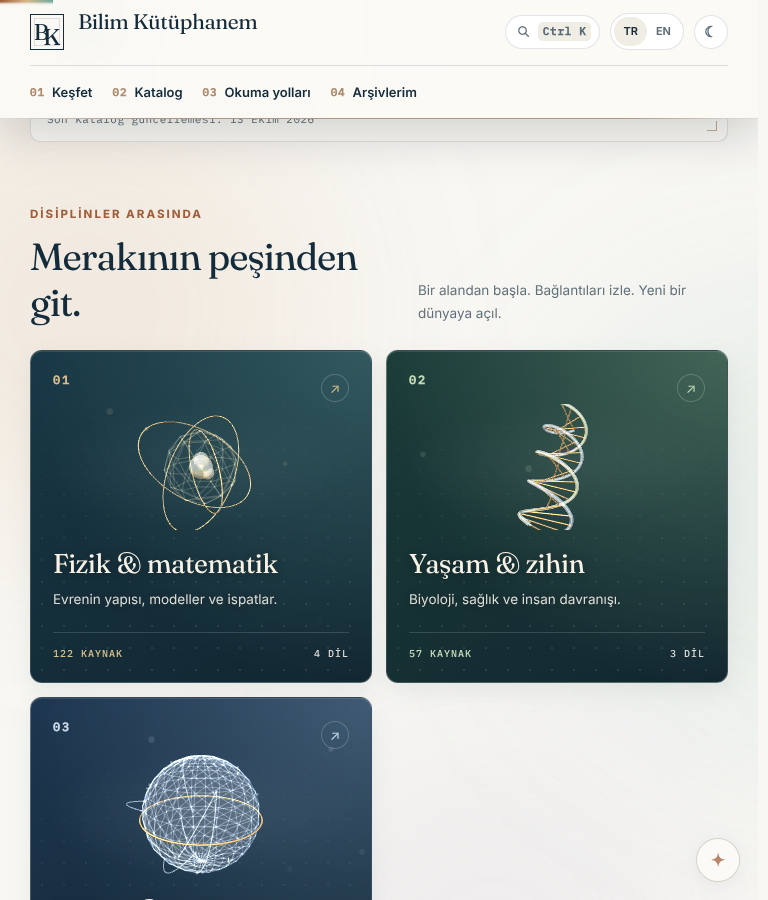
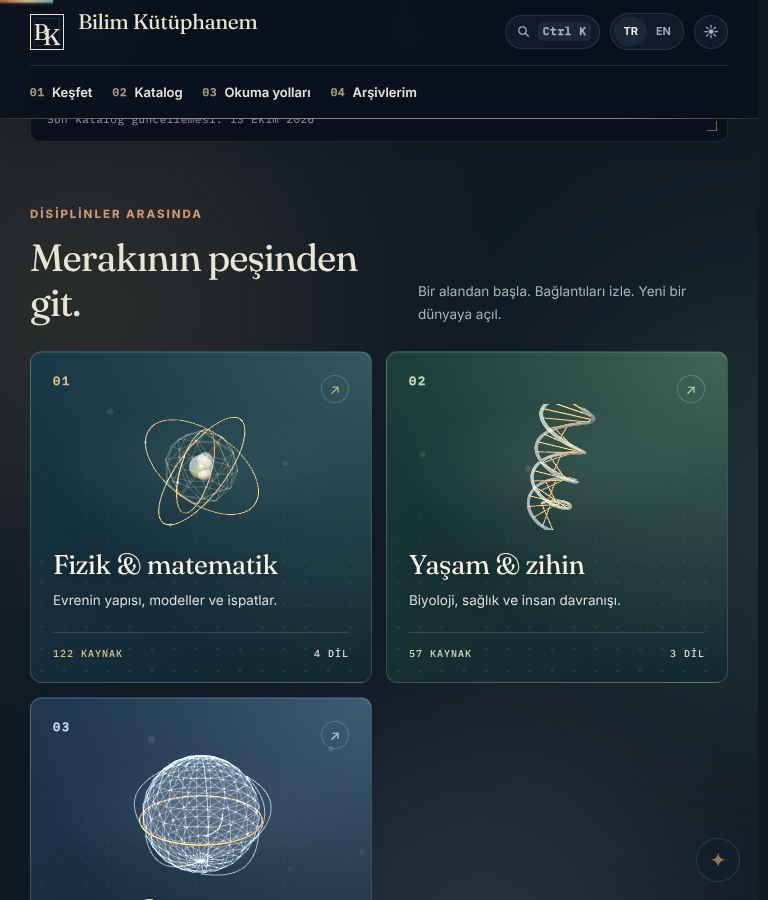
v99: Nobel chart no longer stretches the block (768px), docs (TARAMA, DEVIR 48, EKRAN v99), version bump, tour theme fix
Claude-Session: https://claude.ai/code/session_01GTXipf6cUzVQFgL2AuFcrv

diff --git a/site/index.html b/site/index.html
@@ -1,5 +1,5 @@
 <!doctype html>
-<html lang="tr"><head><meta charset="utf-8"><meta name="viewport" content="width=device-width,initial-scale=1"><meta name="theme-color" content="#132b3b"><script>(function(){try{var s=localStorage.getItem('bk-theme');var d=s==='dark'||(s!=='light'&&window.matchMedia&&matchMedia('(prefers-color-scheme: dark)').matches);document.documentElement.dataset.theme=d?'dark':'light'}catch(e){document.documentElement.dataset.theme='light'}})();</script><script type="importmap">{"imports":{"three":"./vendor/three.module.min.js"}}</script><link rel="preload" href="fonts/Fraunces-var-latin.woff2" as="font" type="font/woff2" crossorigin><link rel="preload" href="fonts/Inter-var-latin.woff2" as="font" type="font/woff2" crossorigin><meta name="description" content="Bilim Kütüphanem — a multilingual library of science, literature and Nobel discoveries."><meta id="ogTitle" property="og:title" content="Bilim Kütüphanem · The Knowledge Library"><meta id="ogDesc" property="og:description" content="Bilim Kütüphanem — a multilingual library of science, literature and Nobel discoveries."><meta id="ogUrl" property="og:url" content="https://mustafaras.github.io/bilim-kutuphanesi/"><meta property="og:type" content="website"><meta id="ogImage" property="og:image" content="https://mustafaras.github.io/bilim-kutuphanesi/og/default.png"><meta name="twitter:card" content="summary_large_image"><title>Bilim Kütüphanem · The Knowledge Library</title><link rel="manifest" href="manifest.webmanifest"><link rel="icon" href="icon.svg"><link rel="stylesheet" href="style.css?v=98"></head>
+<html lang="tr"><head><meta charset="utf-8"><meta name="viewport" content="width=device-width,initial-scale=1"><meta name="theme-color" content="#132b3b"><script>(function(){try{var s=localStorage.getItem('bk-theme');var d=s==='dark'||(s!=='light'&&window.matchMedia&&matchMedia('(prefers-color-scheme: dark)').matches);document.documentElement.dataset.theme=d?'dark':'light'}catch(e){document.documentElement.dataset.theme='light'}})();</script><script type="importmap">{"imports":{"three":"./vendor/three.module.min.js"}}</script><link rel="preload" href="fonts/Fraunces-var-latin.woff2" as="font" type="font/woff2" crossorigin><link rel="preload" href="fonts/Inter-var-latin.woff2" as="font" type="font/woff2" crossorigin><meta name="description" content="Bilim Kütüphanem — a multilingual library of science, literature and Nobel discoveries."><meta id="ogTitle" property="og:title" content="Bilim Kütüphanem · The Knowledge Library"><meta id="ogDesc" property="og:description" content="Bilim Kütüphanem — a multilingual library of science, literature and Nobel discoveries."><meta id="ogUrl" property="og:url" content="https://mustafaras.github.io/bilim-kutuphanesi/"><meta property="og:type" content="website"><meta id="ogImage" property="og:image" content="https://mustafaras.github.io/bilim-kutuphanesi/og/default.png"><meta name="twitter:card" content="summary_large_image"><title>Bilim Kütüphanem · The Knowledge Library</title><link rel="manifest" href="manifest.webmanifest"><link rel="icon" href="icon.svg"><link rel="stylesheet" href="style.css?v=99"></head>
 <body><div class="ambient-light" aria-hidden="true"><span></span><span></span><span></span></div><div id="readingProgress" aria-hidden="true"></div><a class="skip" href="#catalog" data-i18n="skip">Kataloğa geç</a><header id="siteHeader"><div class="header-inner"><a class="brand" href="./"><span class="mark" aria-hidden="true">B<span>K</span></span><span class="brand-text"><b data-i18n="brand">Bilim Kütüphanem</b><small data-i18n="brandSub">BİLİM · EDEBİYAT · KEŞİF</small></span></a><nav aria-label="Ana menü" data-i18n-aria="navigation"><a href="#collections"><span class="nav-index" aria-hidden="true">01</span><span data-i18n="discover">Keşfet</span></a><a href="#catalog"><span class="nav-index" aria-hidden="true">02</span><span data-i18n="catalog">Katalog</span></a><a href="#routes"><span class="nav-index" aria-hidden="true">03</span><span data-i18n="paths">Okuma yolları</span></a><a id="driveRoot" href="#archives"><span class="nav-index" aria-hidden="true">04</span><span data-i18n="archives">Arşivlerim</span></a></nav><div class="header-tools"><button id="searchTrigger" class="search-trigger" type="button" aria-label="Arama alanına odaklan" data-i18n-aria="searchTrigger" aria-controls="query" aria-keyshortcuts="Control+K Meta+K"><svg class="search-trigger-icon" viewBox="0 0 16 16" aria-hidden="true" focusable="false"><circle cx="6.8" cy="6.8" r="4.6"></circle><path d="M10.3 10.3 14 14"></path></svg><kbd aria-hidden="true"><span class="kbd-other">Ctrl K</span><span class="kbd-mac">⌘K</span></kbd></button><div class="language-switch" role="group" aria-label="Arayüz dili / Interface language"><button id="langTr" lang="tr" aria-pressed="true">TR</button><span aria-hidden="true">/</span><button id="langEn" lang="en" aria-pressed="false">EN</button></div><button id="themeToggle" class="theme-toggle" aria-pressed="false"><span aria-hidden="true">☾</span></button></div></div></header>
 <section class="hero" id="hero"><div class="hero-scene" role="img" aria-label="Gözlemevi sahnesi" data-i18n-aria="artLabel"><canvas id="knowledgeCanvas" aria-hidden="true"></canvas><div class="hero-vignette" aria-hidden="true"></div></div><div class="hero-frame" aria-hidden="true"><i></i><i></i><i></i><i></i></div><div class="hero-inner"><div class="hero-copy"><p class="eyebrow"><span class="dot"></span><span data-i18n="heroEyebrow">MERAKIN SINIRLARI YOK</span></p><h1 data-i18n-html="heroTitle"><span class="line">Bir dünya bilgi.</span><span class="line"><em>Sonsuz keşif.</em></span></h1><p class="hero-description" data-i18n="heroDescription">Bilimin dönüm noktalarından edebiyatın büyük eserlerine. Diller ve disiplinler arasında kendi okuma yolunu kur.</p><div class="hero-actions"><a class="primary" href="#catalog"><span data-i18n="explore">Kütüphaneyi keşfet</span><span class="primary-arrow" aria-hidden="true">↗</span></a><a class="quiet" href="#routes" data-i18n="choosePath">Bir okuma yolu seç →</a></div><div class="hero-foot"><span data-i18n="heroFoot">Bilim, edebiyat ve insanlık düşüncesi için büyüyen bir arşiv.</span></div></div><div class="hero-legend" aria-hidden="true"><span class="hero-legend-item" data-i18n="science">BİLİM</span><span class="hero-legend-item" data-i18n="literature">EDEBİYAT</span><span class="hero-legend-item" data-i18n="discovery">KEŞİF</span><p class="hero-caption"><span class="hero-caption-index">01 / ∞</span><span data-i18n="artCaption">Yıldız parlaklığı kayıt yoğunluğunu izler.</span></p></div></div><p class="hero-hud hero-hud-tag" aria-hidden="true"><span data-i18n="artCenter">GÖZLEMEVİ · İLK IŞIK</span></p><p class="hero-hud hero-hud-coords" aria-hidden="true">DEC +41°16′ · RA 12h 30m</p><div class="hero-spectrum" aria-hidden="true"><div class="hs-bar"><i style="--x:12%;--c:#b58cff"></i><i style="--x:27%;--c:#6a8cff"></i><i style="--x:58%;--c:#3fd8e0"></i><i style="--x:88%;--c:#ff6a5c"></i></div><div class="hs-lab"><span>Hδ 410.2</span><span>Hγ 434.0</span><span>Hβ 486.1</span><span>Hα 656.3 nm</span></div><p>BALMER · H I</p></div><a class="hero-scroll" href="#collections"><span data-i18n="scrollHint">Aşağı in</span><span class="hero-scroll-line" aria-hidden="true"></span></a></section>
 <main><section class="panorama" aria-label="Arşiv istatistikleri" data-i18n-aria="statistics"><p class="stats-kicker"><span data-i18n="statsKicker">Gözlemevi kaydı</span></p><div id="stats" class="stats" aria-live="polite"></div><p id="updated"></p></section>
@@ -14,4 +14,4 @@
 <footer><svg class="footer-starmap" viewBox="0 0 1200 72" preserveAspectRatio="none" aria-hidden="true" focusable="false"><path class="sm-ridge" d="M0 58 L64 44 L140 52 L228 36 L310 48 L398 30 L486 44 L574 26 L662 42 L750 32 L838 46 L926 28 L1014 40 L1102 34 L1200 48"></path><path class="sm-faint" d="M0 66 L96 58 L210 64 L330 56 L470 63 L610 55 L760 62 L900 57 L1050 63 L1200 58"></path><g class="sm-stars"><circle cx="64" cy="44" r="1.6"></circle><circle cx="228" cy="36" r="2.1"></circle><circle cx="398" cy="30" r="1.4"></circle><circle cx="574" cy="26" r="2.3"></circle><circle cx="750" cy="32" r="1.5"></circle><circle cx="926" cy="28" r="2"></circle><circle cx="1102" cy="34" r="1.4"></circle></g></svg><div class="footer-grid"><div class="footer-col"><div class="footer-brand"><b data-i18n="brand">Bilim Kütüphanem</b><span data-i18n="footerTag">Bir sonraki keşfine yer aç.</span></div></div><div class="footer-col"><h3 class="footer-heading" data-i18n="footerNoteHeading">Kapsam ve doğruluk</h3><p data-i18n="footerNote">Kitap, ders notu, makale ve ödül kaydı ayrı gösterilir. Katalog seçilmiş kaynaklardan oluşur; eksiksiz bir dünya bibliyografyası veya içerik doğruluğu garantisi değildir.</p></div><div class="footer-col"><h3 class="footer-heading" data-i18n="footerTech">Teknik durum</h3><div class="footer-status"><a href="data/catalog.json" download data-i18n="downloadCatalog">Katalog verisini indir</a><span id="syncStatus"></span><span data-i18n="offline">Çevrimdışı katalog · PDF’ler için internet gerekir</span></div></div></div></div><nav class="footer-nav" aria-label="Sayfa haritası" data-i18n-aria="footerMap"><a href="#hero" data-i18n="actTop">Başa dön</a><a href="#collections" data-i18n="discover">Keşfet</a><a href="#catalog" data-i18n="catalog">Katalog</a><a href="#routes" data-i18n="paths">Okuma yolları</a><a href="#archives" data-i18n="archives">Arşivlerim</a></nav><div class="footer-base"><span data-i18n="footerColophon">Gözlemevi tasarım sistemi</span><span aria-hidden="true">DEC +41°16′ · RA 12h 30m</span></div></footer><nav class="bottom-nav" id="bottomNav" aria-label="Hızlı gezinme" data-i18n-aria="quickNav"><a href="#collections" data-i18n="discover">Keşfet</a><a href="#catalog" data-i18n="catalog">Katalog</a><button type="button" id="bnSearch" class="bn-search" data-i18n-aria="paletteLabel" aria-label="Komut paleti"><span aria-hidden="true">⌕</span></button><a href="#routes" data-i18n="paths">Okuma yolları</a><button type="button" id="bnTheme" data-i18n="bnTheme">Tema</button></nav><button id="motionToggle" class="motion-toggle" aria-pressed="true"><span aria-hidden="true">✦</span><span id="motionLabel">Hareketi durdur</span></button><section id="recordView" hidden aria-labelledby="recordTitle"><svg class="rv-sky" viewBox="0 0 1440 240" preserveAspectRatio="xMidYMax slice" aria-hidden="true" focusable="false"><defs><linearGradient id="rvSkyGrad" x1="0" y1="0" x2="0" y2="1"><stop offset="0" stop-color="#04070E"></stop><stop offset=".62" stop-color="#08172A"></stop><stop offset="1" stop-color="#13324A"></stop></linearGradient></defs><rect width="1440" height="240" fill="url(#rvSkyGrad)"></rect><g class="rv-sparkles"><circle cx="90" cy="96" r="1.1"></circle><circle cx="180" cy="58" r="1.4"></circle><circle cx="420" cy="36" r="1.8"></circle><circle cx="610" cy="72" r="1.2"></circle><circle cx="722" cy="24" r="1.3"></circle><circle cx="960" cy="50" r="2"></circle><circle cx="1180" cy="84" r="1.4"></circle><circle cx="1340" cy="42" r="1.6"></circle></g><path class="rv-ridge" d="M0 196 L120 176 L260 190 L400 160 L540 182 L690 152 L840 176 L980 148 L1120 172 L1260 156 L1440 182 L1440 240 L0 240 Z" fill="#04070E" opacity=".9"></path><path class="rv-ridge-2" d="M0 214 L160 198 L320 208 L480 188 L660 204 L840 186 L1020 202 L1200 190 L1440 208 L1440 240 L0 240 Z" fill="#0A101C"></path></svg><div class="rv-top"><button id="recordBack" type="button"><span aria-hidden="true">←</span><span data-i18n="backToCatalog">Kataloga dön</span></button><p class="rv-hud"><span data-i18n="recordHud">KAYIT DOSYASI</span><span aria-hidden="true"> · DEC +41°16′ · RA 12h 30m</span></p><div class="rv-top-actions"><button id="recordFavorite" type="button" aria-pressed="false"></button><button id="recordShare" type="button"></button></div></div><div id="recordShareFallback" hidden><label for="recordShareUrl" data-i18n="recordLink">Kaynak bağlantısı</label><input id="recordShareUrl" type="url" readonly></div><div class="rv-sheet" id="recordSheet"></div></section>
 <div id="paletteOverlay" hidden><div class="palette" role="dialog" aria-modal="true" data-i18n-aria="paletteLabel"><div class="pk-aura" aria-hidden="true"></div><div class="pk-field"><span class="pk-mark" aria-hidden="true">⌘</span><input id="paletteInput" role="combobox" aria-expanded="false" aria-controls="paletteList" aria-autocomplete="list" autocomplete="off" spellcheck="false" data-i18n-placeholder="palettePlaceholder" data-i18n-aria="paletteLabel"><button id="paletteClose" type="button" data-i18n-aria="close">✕</button></div><div id="paletteScopes" class="pk-scopes" role="group" data-i18n-aria="paletteScopes"></div><div class="pk-body"><div class="pk-listcol"><div id="paletteList" role="listbox" data-i18n-aria="paletteResultsLabel" hidden></div><div id="paletteEmpty" hidden><p data-i18n="paletteNoResults">Bu aramada sonuç yok.</p><div id="paletteTry" class="pk-try"></div></div></div><aside id="palettePreview" class="pk-preview" aria-hidden="true"></aside></div><div class="pk-foot"><p class="pk-hints"><span class="pk-keys"><kbd>↑</kbd><kbd>↓</kbd></span><span data-i18n="pkNavigate">gezin</span><span class="pk-keys"><kbd>↵</kbd></span><span data-i18n="pkOpen">aç</span><span class="pk-keys"><kbd>esc</kbd></span><span data-i18n="pkClose">kapat</span><span class="pk-keys pk-prefix"><kbd>&gt;</kbd><kbd>#</kbd><kbd>~</kbd><kbd>@</kbd></span><span data-i18n="pkPrefix">kapsam</span></p><p id="paletteCount" aria-live="polite"></p></div></div></div>
 <div id="shortcutMap" hidden role="dialog" aria-modal="true" aria-labelledby="shortcutTitle"><div class="sc-panel"><p class="eyebrow"><span class="dot"></span><span data-i18n="shortcutKicker">KLAVYE UYGARLIĞI</span></p><h3 id="shortcutTitle" data-i18n="shortcutTitle">Klavye kısayolları</h3><dl class="sc-list"><div><dt><kbd>⌘</kbd><kbd>K</kbd><span class="sc-or" data-i18n="shortcutOr">veya</span><kbd>Ctrl</kbd><kbd>K</kbd></dt><dd data-i18n="scPalette">Komut paletini aç</dd></div><div><dt><kbd>/</kbd></dt><dd data-i18n="scSearch">Aramaya odaklan</dd></div><div><dt><kbd>?</kbd></dt><dd data-i18n="scMap">Bu haritayı aç</dd></div><div><dt><kbd>esc</kbd></dt><dd data-i18n="close">Kapat</dd></div><div><dt><kbd>&gt;</kbd><kbd>#</kbd><kbd>~</kbd><kbd>@</kbd></dt><dd data-i18n="scScopes">Palette: eylem · yol · alan · yazar kapsamı</dd></div><div><dt><kbd>Alt</kbd><kbd>←</kbd><kbd>→</kbd></dt><dd data-i18n="scScopeCycle">Palette: kapsamı değiştir</dd></div><div><dt><kbd>↑</kbd><kbd>↓</kbd></dt><dd data-i18n="scArrows">Sonuçlar arasında gezin</dd></div><div><dt><kbd>↵</kbd></dt><dd data-i18n="scEnter">Seç</dd></div><div><dt><kbd>j</kbd><kbd>k</kbd></dt><dd data-i18n="scTravel">Kayıt görünümünde komşu kayıtlara geç</dd></div><div><dt><kbd>s</kbd></dt><dd data-i18n="scStar">Okuma listesine yıldız ekle/kaldır</dd></div><div><dt><kbd>c</kbd></dt><dd data-i18n="scCite">Alıntıyı kopyala</dd></div></dl><button id="shortcutClose" type="button" data-i18n="close">Kapat</button></div></div>
-<div id="toast" role="status" aria-live="polite"></div><noscript>Bu katalog için JavaScript gereklidir. / JavaScript is required to browse this catalog.</noscript><script src="i18n.js?v=98" defer></script><script src="i18n-data.js?v=98" defer></script><script src="visuals.js?v=98" defer></script><script src="app.js?v=98" defer></script><script src="motion.js?v=98" defer></script><script src="empty3d.js?v=98" defer></script><script src="effects.js?v=98" defer></script><script src="hero3d.js?v=98" defer></script><script src="ground3d.js?v=98" defer></script><script src="textfit.js?v=98" defer></script><script src="stage.js?v=98" defer></script><script src="skyline3d.js?v=98" defer></script><script src="nobel3d.js?v=98" defer></script><script src="progress.js?v=98" defer></script><script src="constellation3d.js?v=98" defer></script><script src="record.js?v=98" defer></script><script src="palette.js?v=98" defer></script><script src="discovery.js?v=98" defer></script><script src="facets.js?v=98" defer></script></body></html>
+<div id="toast" role="status" aria-live="polite"></div><noscript>Bu katalog için JavaScript gereklidir. / JavaScript is required to browse this catalog.</noscript><script src="i18n.js?v=99" defer></script><script src="i18n-data.js?v=99" defer></script><script src="visuals.js?v=99" defer></script><script src="app.js?v=99" defer></script><script src="motion.js?v=99" defer></script><script src="empty3d.js?v=99" defer></script><script src="effects.js?v=99" defer></script><script src="hero3d.js?v=99" defer></script><script src="ground3d.js?v=99" defer></script><script src="textfit.js?v=99" defer></script><script src="stage.js?v=99" defer></script><script src="skyline3d.js?v=99" defer></script><script src="nobel3d.js?v=99" defer></script><script src="progress.js?v=99" defer></script><script src="constellation3d.js?v=99" defer></script><script src="record.js?v=99" defer></script><script src="palette.js?v=99" defer></script><script src="discovery.js?v=99" defer></script><script src="facets.js?v=99" defer></script></body></html>

diff --git a/site/sw.js b/site/sw.js
@@ -1,1 +1,1 @@
-const CACHE='bilim-kutuphane-v98';const FILES=['./','index.html','style.css?v=98','i18n.js?v=98','i18n-data.js?v=98','app.js?v=98','visuals.js?v=98','motion.js?v=98','empty3d.js?v=98','effects.js?v=98','hero3d.js?v=98','ground3d.js?v=98','textfit.js?v=98','stage.js?v=98','skyline3d.js?v=98','nobel3d.js?v=98','progress.js?v=98','vendor/three.module.min.js','vendor/jsm/postprocessing/EffectComposer.js','vendor/jsm/postprocessing/RenderPass.js','vendor/jsm/postprocessing/UnrealBloomPass.js','vendor/jsm/postprocessing/ShaderPass.js','vendor/jsm/postprocessing/MaskPass.js','vendor/jsm/postprocessing/Pass.js','vendor/jsm/shaders/CopyShader.js','vendor/jsm/shaders/LuminosityHighPassShader.js','constellation3d.js?v=98','record.js?v=98','palette.js?v=98','discovery.js?v=98','facets.js?v=98','icon.svg','manifest.webmanifest','data/catalog.json','fonts/Fraunces-var-latin.woff2','fonts/Fraunces-var-latinext.woff2','fonts/Inter-var-latin.woff2','fonts/Inter-var-latinext.woff2','fonts/PlexMono-400-latin.woff2','fonts/PlexMono-400-latinext.woff2','fonts/PlexMono-500-latin.woff2','fonts/PlexMono-500-latinext.woff2'];self.addEventListener('install',event=>event.waitUntil(caches.open(CACHE).then(cache=>cache.addAll(FILES)).then(()=>self.skipWaiting())));self.addEventListener('activate',event=>event.waitUntil(caches.keys().then(keys=>Promise.all(keys.filter(k=>k!==CACHE).map(k=>caches.delete(k)))).then(()=>self.clients.claim())));self.addEventListener('fetch',event=>{if(event.request.method!=='GET'||new URL(event.request.url).origin!==self.location.origin)return;event.respondWith(fetch(event.request).then(response=>{if(response.ok){const copy=response.clone();event.waitUntil(caches.open(CACHE).then(cache=>cache.put(event.request,copy)))}return response}).catch(()=>caches.match(event.request).then(hit=>hit||event.request.mode==='navigate'&&caches.match('index.html')||Response.error())))});
+const CACHE='bilim-kutuphane-v99';const FILES=['./','index.html','style.css?v=99','i18n.js?v=99','i18n-data.js?v=99','app.js?v=99','visuals.js?v=99','motion.js?v=99','empty3d.js?v=99','effects.js?v=99','hero3d.js?v=99','ground3d.js?v=99','textfit.js?v=99','stage.js?v=99','skyline3d.js?v=99','nobel3d.js?v=99','progress.js?v=99','vendor/three.module.min.js','vendor/jsm/postprocessing/EffectComposer.js','vendor/jsm/postprocessing/RenderPass.js','vendor/jsm/postprocessing/UnrealBloomPass.js','vendor/jsm/postprocessing/ShaderPass.js','vendor/jsm/postprocessing/MaskPass.js','vendor/jsm/postprocessing/Pass.js','vendor/jsm/shaders/CopyShader.js','vendor/jsm/shaders/LuminosityHighPassShader.js','constellation3d.js?v=99','record.js?v=99','palette.js?v=99','discovery.js?v=99','facets.js?v=99','icon.svg','manifest.webmanifest','data/catalog.json','fonts/Fraunces-var-latin.woff2','fonts/Fraunces-var-latinext.woff2','fonts/Inter-var-latin.woff2','fonts/Inter-var-latinext.woff2','fonts/PlexMono-400-latin.woff2','fonts/PlexMono-400-latinext.woff2','fonts/PlexMono-500-latin.woff2','fonts/PlexMono-500-latinext.woff2'];self.addEventListener('install',event=>event.waitUntil(caches.open(CACHE).then(cache=>cache.addAll(FILES)).then(()=>self.skipWaiting())));self.addEventListener('activate',event=>event.waitUntil(caches.keys().then(keys=>Promise.all(keys.filter(k=>k!==CACHE).map(k=>caches.delete(k)))).then(()=>self.clients.claim())));self.addEventListener('fetch',event=>{if(event.request.method!=='GET'||new URL(event.request.url).origin!==self.location.origin)return;event.respondWith(fetch(event.request).then(response=>{if(response.ok){const copy=response.clone();event.waitUntil(caches.open(CACHE).then(cache=>cache.put(event.request,copy)))}return response}).catch(()=>caches.match(event.request).then(hit=>hit||event.request.mode==='navigate'&&caches.match('index.html')||Response.error())))});

diff --git a/site/style.css b/site/style.css
@@ -1464,3 +1464,6 @@ canvas,.living-art svg,.hero-ground{-webkit-user-drag:none;user-drag:none}
 #recordCiteCopy.wave::after{content:"";position:absolute;left:50%;top:50%;width:12px;height:12px;margin:-6px 0 0 -6px;border-radius:50%;pointer-events:none;background:radial-gradient(circle,rgba(255,236,190,.95),rgba(232,206,158,.55) 45%,rgba(232,206,158,0) 70%);animation:cite-wave .9s cubic-bezier(.2,.7,.2,1) both}
 @keyframes cite-wave{from{transform:scale(1);opacity:.95}to{transform:scale(34);opacity:0}}
 @media(prefers-reduced-motion:reduce){#recordCiteCopy.wave::after{animation:none;opacity:0}}
+/* chart view: the wide plot scrolls inside its own box instead of stretching the whole Nobel block (found by the 768px screen tour) */
+.nobel-chronicle,.nobel-chronicle>*{min-width:0;max-width:100%}
+.nobel-chronicle .nc-chart,.nobel-chronicle .nc-scroll{min-width:0;max-width:100%;box-sizing:border-box}

diff --git a/tools/screen_tour.py b/tools/screen_tour.py
@@ -21,7 +21,8 @@ with sync_playwright() as p:
             tag = f"{w}-{theme}"
             pg = b.new_context(viewport={"width": w, "height": 900}, service_workers="block").new_page()
             errs = []; pg.on("pageerror", lambda e: errs.append(str(e))); pg.on("console", lambda m: errs.append(m.text[:200]) if m.type == "error" else None)
-            pg.goto(a.url + "?tour=" + str(time.time()), wait_until="load"); pg.evaluate(f"document.documentElement.dataset.theme='{theme}'")
+            pg.add_init_script(f"try{{localStorage.setItem('bk-theme','{theme}')}}catch(e){{}}")   # the site's own theme key (setting data-theme directly gets overridden on narrow widths)
+            pg.goto(a.url + "?tour=" + str(time.time()), wait_until="load")
             pg.wait_for_function('typeof records!=="undefined"&&records.length', timeout=90000); pg.wait_for_timeout(9000)
             shot = lambda name: pg.screenshot(path=str(out / f"{tag}-{name}.png"))
             shot("01-hero")

diff --git a/docs/tasarim/DEVIR-FAZ-4.md b/docs/tasarim/DEVIR-FAZ-4.md
@@ -355,3 +355,13 @@ Branch'te commit → `git push origin <branch>` → ana checkout'ta (`C:\Users\m
 **Bulunan ve düzeltilen:** (1) kayıt başlığı programatik odak halkası = çerçeve → `#recordTitle:focus{outline:0}`; (2) grafik sahnesi 3B sahnenin 100px altında kalıyordu → şerit yüksekliği sahneye doldurur (500px); (3) kare hızına bağlı yumuşatmalar (`*.12`, `*.18`, `*.006`) `damp`/`dt`'ye çevrildi (constellation, nobel etiketleri) — 144 Hz ekranda 60 Hz ile aynı his; (4) kubbe %40 büyütüldü (56px birim), lamba yansıma şeridi güçlendirildi.
 **Bilinçli karar:** hero kalite yöneticisi tek yönlü kalır (geri toparlanma yok) — titreşimli kademe değişimi (flip-flop) kötü; bunun yerine `bk:quality` yalnızca düşürür.
 **Doğrulanamayan:** gerçek GPU'da akıcılık, ease eğrisinin hissi, dalış blur'u.
+
+## 48. Paket 35–39 (v99) — B, E, F, G, H, I kalanları
+- **B1** kapak: `wearEdges` (kenar/köşe aşınması: renk açılması + roughness↑), folyo `anisotropy .5` (fırçalanmış altın), `smudgeNormal` parmak izi **clearcoat normal** (çok düşük şiddet). **B2** sayfa bloğu: 28×1×8 segment, fore-edge şişkinliği + baş/son kenarlarda dalgalı yer değiştirme (±0.004), hover'da kapak 12° açılır (v88'den). **B3** kurdele: 6 segmentli **verlet zinciri** (yerçekimi kitabın duruşuna göre döner, hızlı yaw kuyruğu savurur), sheen satin.
+- **E4** `record.js constellationHtml`: deterministik **yay yerleşimi** (160 adım soğutma; ilişki ağırlığı = merkeze çekim sertliği: yazar > yıl > dil > alan; düğümler birbirini iter). 8 düğümde en yakın iki düğüm ≥157 birim. **E5** derinlik soluklaşması (kameraya uzaklıkla opaklık −%40) + üzerine gelinen/odaklanan gezegen için **detay kartı** (`.rv-pcard`: kapak rengi, başlık, yazar·yıl, "Kaydı aç"); eski genişleyen etiket kompakt pill'e döndü.
+- **F1** her atlas karosuna kendi katı/ışıklı nesnesi: cam atom çekirdeği + altın yörünge halkaları, cam DNA tüpleri + altın basamaklar (`InstancedMesh`), cam küre + altın ekvator, altın kafes düğümleri (`InstancedMesh`), ışıklı bantlı gezegen + altın ay, altın armiller halkalar; hepsi **aynı `studioEnv` PMREM'i**. **F2** işaretçiyle kamera paralaksı. **F3** raf kitapları ortak geometriyi (`shared()` önbelleği: pano, sayfa bloğu, sırt) paylaşır. **F4** raf kitabı hover'da öne çıkar (z +.3) ve komşu kartlar ±9px kayar (CSS `translate`).
+- **G1** kart kenarında dönen conic ışık (`@property --card-ang`; koyu pirinç / açık bakır). **G2** canlı kapakta derinlik: işaretçiyle `--mx/--my`, ızgara ve çizim zıt yönde kayar. **G3** `empty3d.js`: "sonuç yok" durumunda kutu içinde sönük galaksi (tembel, kendi küçük GL bağlamı, element ile birlikte bırakılır, reduced-motion'da tek kare). **G4** liste görünümünde satıra gelince **gerçek 3B kapak önizlemesi** (tek canvas, sahne önbellekli `sceneFor`).
+- **H1** palet: `backdrop-filter` blur + saturate + chroma lekeleri; kayıt önizlemesinde 3B mini kitap (`BKStage.mini`). **H2** kayıt sekmeleri: gelen panel yönüne göre kayarak belirir (WAAPI). **H3** atıf kopyala: altın dalga (CSS), konfeti yok.
+- **I1** Esc: önce 3B kitaptan çıkar, sonra kayıttan; Galaksi canvas'ında Esc odağı bırakır. **I2** `tools/reduced_audit.py`. **I3/A6** CI: `text_fit_audit`, `reduced_audit`, `leak_audit` adımları. **I4** `tools/leak_audit.py` + gerçek sızıntı bulundu: kapanan 3B sahneler `dispose` edilmiyordu → `disposeItem` (geometri/materyal/doku; ortak ENV hariç).
+- **Bölüm 4/5:** `tools/screen_tour.py` (108 kare), `TARAMA-RAPORU.md` güncel; `ARASTIRMA-3D.md` (kaynak + lisans kontrolü; "Book of Shaders CC BY-NC-SA" iddiası doğrulanamadı).
+- **Yapılmayan / sınırlar:** gerçek GPU'da hareket, kurdele fiziği hissi, dalış blur'u görülmedi. `transmission`/DOF/SSR bilerek yok (bkz. ARASTIRMA-3D).

diff --git a/docs/tasarim/TARAMA-RAPORU.md b/docs/tasarim/TARAMA-RAPORU.md
@@ -1,7 +1,30 @@
-# Tarama raporu (v86) — canvas metin envanteri ve denetim durumu
+# Tarama raporu (v99) — canvas metin envanteri ve denetim durumu
 
-Kapsam notu: bu tur **kod düzeyinde** tarama + otomatik denetimdir (`ui_audit.py` 4 genişlik × 2 tema yeşil). 12 ekranlık elle ekran turu, GPU akıcılık ölçümü ve sızıntı testi (20× aç/kapat) **yapılmadı**; BÖLÜM 4.1/4.5 açıktır.
+Kapsam notu (v99): kod taraması + otomatik denetimler + **ekran turu** (`tools/screen_tour.py`: 18 ekran × 2 tema × 3 genişlik = 108 kare, `ekran/v99/`). Yazılımsal GL olduğu için hareket hissi ve gerçek GPU hızı **ölçülmedi**.
 
+## Otomatik kapılar (CI'da çalışır)
+`validate_site`, `validate_i18n`, `check_app`, `ui_audit` (4 genişlik × 2 tema: taşma, konsol, kontrast), `text_fit_audit` (186 yüzey), `reduced_audit` (reduced-motion: tek durağan kare), `leak_audit` (kayıt 8× aç/kapat, 3B kitap; yerelde 20×). Yerel: `motion_audit` (dalış/scroll/Nobel geçişleri).
+
+## Ekran turunda bulunan ve düzeltilen kusurlar
+| Kusur | Nerede | Düzeltme |
+|---|---|---|
+| Nobel grafik görünümü 3B sahnenin altında da görünüyordu (altalta iki grafik) | tüm genişlikler | `[hidden]` ezilmesi (`display:flex`) düzeltildi (v97) |
+| Kayıt başlığında beyaz odak çerçevesi | kayıt sayfası | `#recordTitle:focus{outline:0}` (v98) |
+| Grafik sahnesi 3B sahneden 100px kısa / üstte boşluk | Nobel | şerit yüksekliği sahneye doldurur (v98) |
+| Grafik görünümünde Nobel bloğu 756px'e şişip `GALAKSİ` düğmesi ve `Ekonomi` çipi kırpılıyordu | 768px | `.nobel-chronicle>*{min-width:0;max-width:100%}` (v99) |
+| 3B kitap kapağı kenar benekleri kirli duruyordu | kayıt 3B | yoğunluk/opaklık düşürüldü (v99) |
+| Atlas hover çizgileri başlık/açıklama üstünden geçiyordu | atlas karoları | tile-constellation maskesi (v99) |
+| Liste önizlemesi erişim bağlantılarını örtüyordu | liste görünümü | önizleme meta sütunlarına taşındı (v99) |
+| Her açılan 3B kitap GPU belleğinde kalıyordu (geometri 55→91, doku 56→100) | kayıt sayfası | kapanan sahneler `dispose` (v99); 20 turda geometri 6→6, canvas 18→18 |
+
+## Hâlâ açık / dürüst notlar
+1. Gerçek GPU'da akıcılık, ease hissi, dalış blur'u, kurdele fiziği: bu ortamda görülemedi.
+2. 768px hero: paragraf, galaksi parçacıkları üstünde okunaklılığı azalıyor (mobil kapsam dışı; masaüstü etkilenmiyor).
+3. Doku sayısı 20 turda 8→12 (küçük, sınırlı artış; geometri/canvas sabit) — izlemeye değer.
+4. `transmission` camı yalnız Silüet `◇ Cam`; atlas camları ucuz (opacity+clearcoat).
+
+## Eski açık işler (v86 listesinden)
+Elle ekran turu → **yapıldı (v99)**. Nobel DOM etiketlerine `declutter` → Galaksi/Silüet'te var. Sızıntı testi → **yapıldı**. Paket B–I → uygulandı, bkz. DEVIR §36–49.
 ## Canvas / SVG metin envanteri
 | Konum | Ne çiziyor | Eski risk | Şimdi |
 |---|---|---|---|
@@ -15,8 +38,3 @@ Kapsam notu: bu tur **kod düzeyinde** tarama + otomatik denetimdir (`ui_audit.p
 | visuals.js `LA_LABEL` | 16 sabit denklem etiketi | TR/EN farkı yok | sorun yok (≤14 karakter) |
 | constellation3d.js DOM etiketleri | düğüm başlıkları | çakışabiliyordu | `declutter` |
 
-## Açık işler (öncelik: etki × çaba)
-1. Elle ekran turu + hover taraması (yüksek etki, düşük çaba).
-2. Nobel Silüet/Galaksi DOM etiketlerine `declutter` (A5).
-3. Sızıntı testi: kayıt sayfası 20× aç/kapat, `renderer.info.memory`.
-4. Paket B–I (malzeme, Nobel sahnesi, hero süreklilik…): başlanmadı.

diff --git a/docs/tasarim/EKRAN-BELGESI.md b/docs/tasarim/EKRAN-BELGESI.md
@@ -162,3 +162,15 @@ Yazılımsal GL (SwiftShader) durağan kareleri; hareket ve GPU hızı doğrulan
 |---|---|---|
 | Hero + büyütülmüş kubbe | ![](ekran/v98/scroll-dark-0000.png) | ![](ekran/v98/scroll-light-0000.png) |
 | Kayıt (başlıkta çerçeve yok) | ![](ekran/v98/dive-dark-record.png) | ![](ekran/v98/dive-light-record.png) |
+
+## v99 — B, E, F, G, H, I ve ekran turu
+Tam tur: `ekran/v99/{1440,1100,768}-{dark,light}-NN-*.png` (18 ekran × 6 yapılandırma). Öne çıkanlar:
+
+| | Koyu | Açık |
+|---|---|---|
+| Atlas (katı PBR nesneler) | ![](ekran/v99/1440-dark-02-atlas.png) | ![](ekran/v99/1440-light-02-atlas.png) |
+| 3B kitap (aşınma, kurdele) | ![](ekran/v99/1440-dark-14-record-3d.png) | ![](ekran/v99/1440-light-14-record-3d.png) |
+| Takımyıldızı | ![](ekran/v99/1440-dark-15-record-constellation.png) | ![](ekran/v99/1440-light-15-record-constellation.png) |
+| Palet (blur + 3B önizleme) | ![](ekran/v99/1440-dark-17-palette-results.png) | ![](ekran/v99/1440-light-17-palette-results.png) |
+| Boş durum | ![](ekran/v99/1440-dark-08-catalog-empty.png) | ![](ekran/v99/1440-light-08-catalog-empty.png) |
+| Nobel grafik, 768px (taşma düzeltildi) | ![](ekran/v99/768-dark-05-nobel-chart.png) | ![](ekran/v99/768-light-05-nobel-chart.png) |
